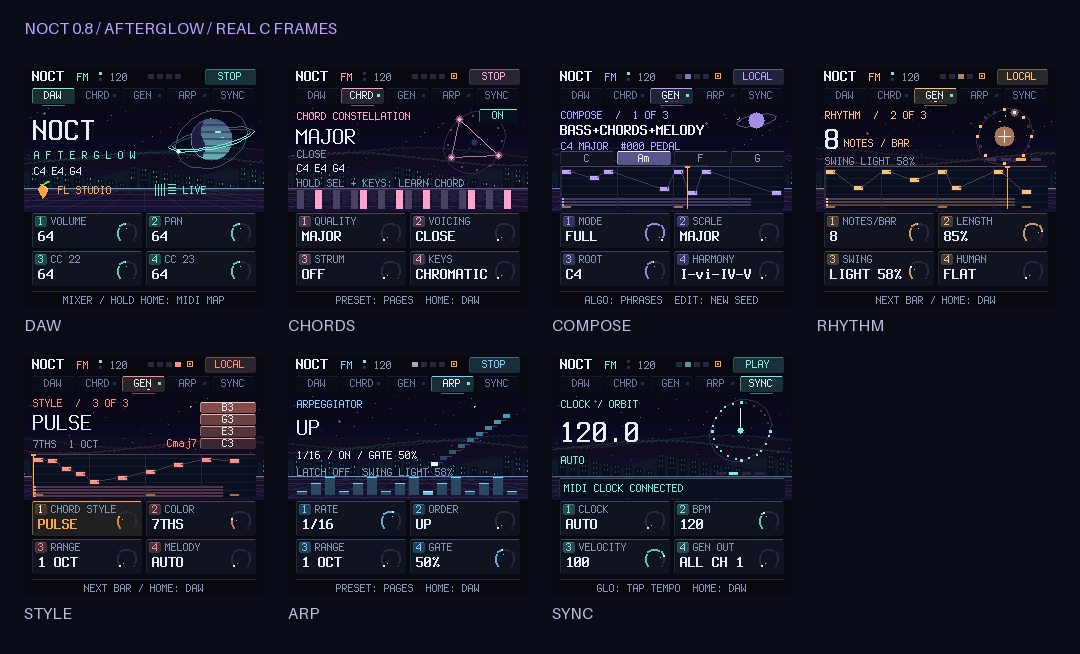
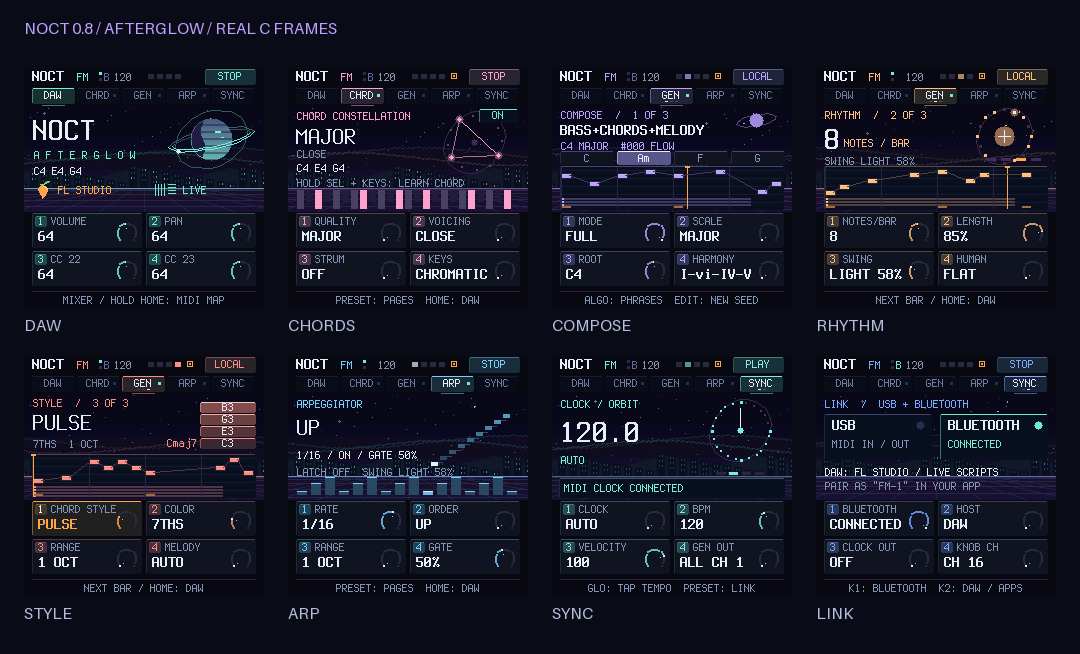
NOCT 0.9.3: Bluetooth MIDI with USB, and a mode for Android apps
The device image is now built with fm1-base's Bluetooth LE MIDI (its radio
code unchanged): notes, controls and clock go out and come in on USB and
Bluetooth at the same time; it advertises as "FM-1". A new LINK page
switches Bluetooth on or off (kept by SAVE), and the header shows it
(blinking while waiting, steady when connected). The USB-only image is
still built as a CI artifact for fallback.

For apps without the DAW scripts (Koala Sampler and others on Android):
HOST APPS makes PLAY send MIDI Start / Stop; CLOCK OUT makes the FM-1 the
tempo master (24 PPQN from its BPM) - as master it ignores others' clock
and Start but always obeys Stop, which the fuzz test caught; the DAW-page
knobs can send on channel 1.

CI runs every C test on both the USB-only and the Bluetooth simulator
builds and checks both device images (Bluetooth image 250516 B, RAM
67288 of 98304 B). docs/HARDWARE_FACTS.md records the platform facts with
sources; README (EN/RU), site and emulator explain Bluetooth and Android.

Claude-Session: https://claude.ai/code/session_012eSwYGEGmDXbFAtAg5FXys

diff --git a/site/index.html b/site/index.html
@@ -26,13 +26,13 @@
   <main>
     <section class="hero">
       <div>
-        <p class="tag">M-VAVE FM-1 · v0.9.2 · USB MIDI</p>
-        <h1 data-i18n="hero.title">MIDI controller for FL&nbsp;Studio and Ableton&nbsp;Live</h1>
+        <p class="tag">M-VAVE FM-1 · v0.9.3 · USB + BLUETOOTH MIDI</p>
+        <h1 data-i18n="hero.title">MIDI controller for FL&nbsp;Studio, Ableton&nbsp;Live and mobile apps</h1>
         <p class="lead" data-i18n="hero.lead">This firmware turns the FM-1 into a DAW controller: keys, chords, a melody generator, an arpeggiator, mixer knobs and transport. The built-in synth is off — your DAW makes the sound.</p>
         <div class="cta"><a class="btn" href="#install" data-i18n="cta.install">Install</a><a class="btn ghost" href="./downloads/NOCT-DAW-scripts.zip" download data-i18n="cta.scripts">DAW scripts</a></div>
         <ul class="facts">
-          <li><b>27</b><span data-i18n="fact.keys">keys, F3–G5, ±3 octaves</span></li>
-          <li><b>7</b><span data-i18n="fact.pages">pages of 4 knobs</span></li>
+          <li><b>USB+BT</b><span data-i18n="fact.ports">MIDI over cable and Bluetooth at once</span></li>
+          <li><b>8</b><span data-i18n="fact.pages">pages of 4 knobs</span></li>
           <li><b>11</b><span data-i18n="fact.chords">chord types</span></li>
           <li><b>1000</b><span data-i18n="fact.phrases">phrases per seed, on the ALGORITHM dial</span></li>
         </ul>
@@ -67,6 +67,7 @@
         <article><img src="./screens/style.png" width="240" height="240" alt="STYLE page" loading="lazy"><div><h3>STYLE</h3><p data-i18n="p.style">How the chords play and what kind of melody you get: 13 characters from flowing lines, arpeggios and riffs to scale runs, ostinati, hooks, turns, octaves and echoes.</p><dl><dt>K1</dt><dd>HOLD, PULSE, OFFBEAT, BROKEN</dd><dt>K2</dt><dd data-i18n="p.style2">Triads, 7ths, add9, sus2, mixed</dd><dt>K3</dt><dd data-i18n="p.style3">Range 1–3 octaves</dd><dt>K4</dt><dd data-i18n="p.style4">Melody character (AUTO + 13)</dd></dl></div></article>
         <article><img src="./screens/arp.png" width="240" height="240" alt="ARP page" loading="lazy"><div><h3>ARP</h3><p data-i18n="p.arp">Arpeggiates the held notes. ARP + ENV latches them hands-free.</p><dl><dt>K1</dt><dd data-i18n="p.arp1">Rate 1/4 … 1/32</dd><dt>K2</dt><dd>UP, DOWN, RANDOM, CONVERGE, PEDAL…</dd><dt>K3</dt><dd data-i18n="p.arp3">Octaves 1–3</dd><dt>K4</dt><dd data-i18n="p.arp4">Note length</dd></dl></div></article>
         <article><img src="./screens/sync.png" width="240" height="240" alt="SYNC page" loading="lazy"><div><h3>SYNC</h3><p data-i18n="p.sync">Tempo and output. GLO on this page is tap tempo; the new BPM goes straight to the DAW.</p><dl><dt>K1</dt><dd>AUTO, INTERNAL, EXTERNAL</dd><dt>K2</dt><dd>BPM</dd><dt>K3</dt><dd data-i18n="p.sync3">Velocity 1–127; turn below 1 for SENSED</dd><dt>K4</dt><dd data-i18n="p.sync4">Generator out: all on ch 1, or SPLIT</dd></dl></div></article>
+        <article><img src="./screens/link.png" width="240" height="240" alt="LINK page" loading="lazy"><div><h3>LINK</h3><p data-i18n="p.link">USB and Bluetooth MIDI at the same time. APPS mode and clock out make the FM-1 drive apps like Koala Sampler.</p><dl><dt>K1</dt><dd data-i18n="p.link1">Bluetooth on / off</dd><dt>K2</dt><dd data-i18n="p.link2">Host: DAW scripts / apps (Start, Stop)</dd><dt>K3</dt><dd data-i18n="p.link3">Send MIDI Clock</dd><dt>K4</dt><dd data-i18n="p.link4">Knob channel 16 / 1</dd></dl></div></article>
       </div>
     </section>
 
@@ -118,11 +119,12 @@
         <div class="card"><h3>Ableton Live 11/12</h3><ol data-i18n="daw.live"><li>Copy the <code>Ableton Live/NOCT</code> folder to <code>Remote Scripts/</code> in your User Library.</li><li>Restart Live. Control Surface → <b>NOCT</b>, Input/Output → NOCT FM-1.</li><li>Turn on Track for the input and Sync for the output.</li><li>Select a MIDI track with an instrument.</li></ol></div>
       </div>
       <div class="card split"><h3 data-i18n="daw.splitt">Three instruments from the generator</h3><p data-i18n="daw.split">On SYNC set K4 to SPLIT: melody goes on channel 1, chords on 2, bass on 3. In FL Studio give three channels MIDI input channels 1, 2 and 3 (Channel settings → MIDI). In Live create three MIDI tracks with input NOCT FM-1 and channels Ch. 1, Ch. 2 and Ch. 3. The keyboard always plays on channel 1.</p></div>
+      <div class="card split"><h3 data-i18n="daw.appst">Android, Koala Sampler and other apps</h3><p data-i18n="daw.apps">On the FM-1 open LINK (PRESET after SYNC): HOST → APPS, CLOCK OUT → SEND, KNOB CH → CH 1 if the app learns controllers there. <b>USB:</b> connect through a USB-C / OTG adapter and enable the FM-1 in the app's MIDI settings. <b>Bluetooth:</b> don't pair in Android's Bluetooth settings — open the FM-1 from the app's Bluetooth MIDI search, or once with a Bluetooth MIDI connector app; it is called "FM-1". In Koala enable MIDI input from the FM-1 and external clock sync. USB has less latency than Bluetooth.</p></div>
       <div class="cta"><a class="btn" href="./downloads/NOCT-DAW-scripts.zip" download data-i18n="daw.scripts">Download scripts</a><a class="btn ghost" href="https://github.com/Joolo09/noct-fm#readme" data-i18n="daw.docs">Full documentation</a></div>
     </section>
   </main>
 
-  <footer><span>NOCT FM 0.9.2</span><span data-i18n="footer">Built on CTL-1, fm1-base and felucca-bsp · <a href="./LICENSE">MPL-2.0</a> · not affiliated with M-VAVE, Image-Line or Ableton</span></footer>
+  <footer><span>NOCT FM 0.9.3</span><span data-i18n="footer">Built on CTL-1, fm1-base and felucca-bsp · <a href="./LICENSE">MPL-2.0</a> · not affiliated with M-VAVE, Image-Line or Ableton</span></footer>
   <script type="module" src="./installer.js?v=3"></script>
 </body>
 </html>

diff --git a/emulator/index.html b/emulator/index.html
@@ -37,6 +37,7 @@ async function refresh(){try{let s=await(await fetch('/state')).json();if(!s.rea
 'RHYTHM: K1 — нот на такт, K2 — длительность, K3 — свинг, K4 — живость (акценты velocity). HOME возвращает ручки DAW.',
 'STYLE: K1 — стиль аккордов (HOLD/PULSE/OFFBEAT/BROKEN), K2 — окраска (TRIADS/7THS/ADD9/SUS2/MIXED), K3 — диапазон, K4 — характер мелодии (AUTO + 13).',
 'ARP: K1 — сетка, K2 — порядок (вкл. CONVERGE/PEDAL), K3 — октавы, K4 — длина ноты. ARP включает/выключает перебор.',
-'SYNC: K1 — AUTO/INT/EXT, K2 — BPM, K3 — velocity (ниже 1 — SENSED), K4 — выход генератора: всё на канале 1 или SPLIT (мелодия 1, аккорды 2, бас 3). GLO на этой странице — tap tempo.'][s.page];
-$('page').textContent=['DAW','CHORDS','COMPOSE','RHYTHM','STYLE','ARP','SYNC'][s.page]||s.page;$('bpm').textContent=(s.bpm/10).toFixed(1);$('notes').textContent=(s.sounding||s.notes).join(' · ')||'—';$('transport').textContent=s.running?'GEN PLAY':s.playing?'DAW PLAY':'STOP';const ledNames=['FX','SEL','ENV','LFO','EDIT','GLO','HOME','SAVE','ARP','SEQ','PLAY','REC','OCT-','OCT+'];document.querySelectorAll('[data-tap]').forEach(b=>{let i=ledNames.indexOf(b.dataset.tap);b.classList.toggle('on',!!(s.led_buttons>>i&1));b.classList.toggle('dim',!!(s.led_dim_buttons>>i&1))});for(const e of s.events){if(e.id<=lastEvent)continue;lastEvent=e.id;let [st,n,v]=e.data;if((st&240)===144&&v){deferred.delete(n);noteOn(n,v)}if((st&240)===128||((st&240)===144&&!v)){if(pedal)deferred.add(n);else noteOff(n)}if((st&240)===176&&n===64){pedal=v>=64;if(!pedal){for(const note of deferred)noteOff(note);deferred.clear()}}if((st&240)===176&&(n===120||n===123)){for(const note of voices.keys())noteOff(note);deferred.clear()}}for(const n of voices.keys())if(!(s.sounding||s.notes).includes(n))noteOff(n);$('log').textContent=s.events.slice(-9).map(e=>e.data.map(v=>v.toString(16).toUpperCase().padStart(2,'0')).join(' ')).join('\n');document.querySelectorAll('[data-key]').forEach(b=>{let key=Number(b.dataset.key);b.classList.toggle('down',!!(s.led_keys>>key&1));b.classList.toggle('dim',!!(s.led_dim_keys>>key&1))})}catch(e){$('connection').textContent='● '+e.message}setTimeout(refresh,120)}refresh();
+'SYNC: K1 — AUTO/INT/EXT, K2 — BPM, K3 — velocity (ниже 1 — SENSED), K4 — выход генератора: всё на канале 1 или SPLIT (мелодия 1, аккорды 2, бас 3). GLO на этой странице — tap tempo.',
+'LINK: K1 — Bluetooth вкл/выкл, K2 — хост DAW / APPS (PLAY шлёт MIDI Start/Stop), K3 — выход MIDI Clock, K4 — канал ручек 16 / 1.'][s.page];
+$('page').textContent=['DAW','CHORDS','COMPOSE','RHYTHM','STYLE','ARP','SYNC','LINK'][s.page]||s.page;$('bpm').textContent=(s.bpm/10).toFixed(1);$('notes').textContent=(s.sounding||s.notes).join(' · ')||'—';$('transport').textContent=s.running?'GEN PLAY':s.playing?'DAW PLAY':'STOP';const ledNames=['FX','SEL','ENV','LFO','EDIT','GLO','HOME','SAVE','ARP','SEQ','PLAY','REC','OCT-','OCT+'];document.querySelectorAll('[data-tap]').forEach(b=>{let i=ledNames.indexOf(b.dataset.tap);b.classList.toggle('on',!!(s.led_buttons>>i&1));b.classList.toggle('dim',!!(s.led_dim_buttons>>i&1))});for(const e of s.events){if(e.id<=lastEvent)continue;lastEvent=e.id;let [st,n,v]=e.data;if((st&240)===144&&v){deferred.delete(n);noteOn(n,v)}if((st&240)===128||((st&240)===144&&!v)){if(pedal)deferred.add(n);else noteOff(n)}if((st&240)===176&&n===64){pedal=v>=64;if(!pedal){for(const note of deferred)noteOff(note);deferred.clear()}}if((st&240)===176&&(n===120||n===123)){for(const note of voices.keys())noteOff(note);deferred.clear()}}for(const n of voices.keys())if(!(s.sounding||s.notes).includes(n))noteOff(n);$('log').textContent=s.events.slice(-9).map(e=>e.data.map(v=>v.toString(16).toUpperCase().padStart(2,'0')).join(' ')).join('\n');document.querySelectorAll('[data-key]').forEach(b=>{let key=Number(b.dataset.key);b.classList.toggle('down',!!(s.led_keys>>key&1));b.classList.toggle('dim',!!(s.led_dim_keys>>key&1))})}catch(e){$('connection').textContent='● '+e.message}setTimeout(refresh,120)}refresh();
 </script></html>

diff --git a/site/i18n.js b/site/i18n.js
@@ -4,7 +4,7 @@
 const ru = {
   'title':'NOCT FM — MIDI-прошивка для M-VAVE FM-1',
   'nav.how':'Как работает','nav.pages':'Страницы','nav.buttons':'Кнопки','nav.install':'Установка',
-  'hero.title':'MIDI-контроллер для FL&nbsp;Studio и Ableton&nbsp;Live',
+  'hero.title':'MIDI-контроллер для FL&nbsp;Studio, Ableton&nbsp;Live и мобильных приложений',
   'hero.lead':'Прошивка превращает FM-1 в контроллер для DAW: клавиатура, аккорды, генератор мелодий, арпеджиатор, ручки микшера и транспорт. Встроенный синтезатор отключён — весь звук делает DAW.',
   'cta.install':'Установить','cta.scripts':'Скрипты для DAW',
   'fact.keys':'клавиш, F3–G5, ±3 октавы','fact.pages':'страниц по 4 ручки','fact.chords':'типов аккордов','fact.scales':'ладов в генераторе','fact.phrases':'фраз на одно зерно — крутилка ALGORITHM',
@@ -31,7 +31,7 @@ const ru = {
   'p.sync3':'Velocity 1–127; ниже 1 — SENSED (по силе нажатия)','daw.splitt':'Три инструмента из генератора','daw.split':'На SYNC поставь K4 в SPLIT: мелодия идёт на канале 1, аккорды — на 2, бас — на 3. В FL Studio задай трём каналам MIDI-вход 1, 2 и 3 (Channel settings → MIDI). В Live создай три MIDI-дорожки со входом NOCT FM-1 и каналами Ch. 1, Ch. 2 и Ch. 3. Клавиатура всегда играет на канале 1.',
   'p.sync':'Темп и выход. На этой странице GLO — tap tempo, новый BPM сразу уходит в DAW.','p.sync4':'Выход генератора: всё на канале 1 или SPLIT',
   'buttons.title':'Кнопки',
-  'b.home':'Ручки → DAW. Удержание: MIXER / MIDI MAP','b.preset':'Листать страницы','b.algo':'Листать фразы #000–999','b.sel':'Аккорды вкл/выкл',
+  'b.home':'Ручки → DAW. Удержание: MIXER / MIDI MAP','b.preset':'Листать страницы','fact.ports':'MIDI по кабелю и Bluetooth одновременно','p.link':'USB и Bluetooth MIDI одновременно. Режим APPS и выход clock позволяют FM-1 управлять приложениями вроде Koala Sampler.','p.link1':'Bluetooth вкл / выкл','p.link2':'Хост: скрипты DAW / приложения (Start, Stop)','p.link3':'Отправлять MIDI Clock','p.link4':'Канал ручек 16 / 1','daw.appst':'Android, Koala Sampler и другие приложения','daw.apps':'На FM-1 открой LINK (PRESET после SYNC): HOST → APPS, CLOCK OUT → SEND, KNOB CH → CH 1, если приложение назначает контроллеры на этом канале. <b>USB:</b> подключи через переходник USB-C / OTG и включи FM-1 в MIDI-настройках приложения. <b>Bluetooth:</b> не сопрягай в настройках Bluetooth Android — открой FM-1 через поиск Bluetooth MIDI в приложении или один раз через приложение-коннектор Bluetooth MIDI; устройство называется «FM-1». В Koala включи MIDI-вход от FM-1 и синхронизацию по внешнему clock. У USB задержка меньше, чем у Bluetooth.','b.algo':'Листать фразы #000–999','b.sel':'Аккорды вкл/выкл',
   'b.keys':'клавиши','b.learn':'Запомнить аккорд','b.seq':'Генератор: пуск / стоп','b.key':'клавиша','b.root':'Тоника генератора',
   'b.edit':'Новое зерно: 1000 новых фраз','b.hold':'0,6 с','b.edithold':'Новая мелодия и аккорды','b.undo':'Отменить, до 8 шагов',
   'b.arp':'Арпеджиатор вкл/выкл','b.glo':'SYNC; на SYNC — tap tempo','b.transport':'Транспорт DAW','b.fx':'Эффекты трека в DAW',

diff --git a/tools/render-afterglow.py b/tools/render-afterglow.py
@@ -8,7 +8,9 @@ from PIL import Image, ImageDraw, ImageFont
 root=Path(__file__).resolve().parents[1]
 output=root/'test-output/afterglow'
 output.mkdir(parents=True,exist_ok=True)
-host=root/('firmware/app/build/host/noct-usb_host.exe' if os.name=='nt' else 'firmware/app/build/host/noct-usb_host')
+build=root/'firmware/app/build/host'
+host=build/('noct_host.exe' if os.name=='nt' else 'noct_host')   # the Bluetooth build shows the LINK page as on the device
+if not host.exists():host=build/('noct-usb_host.exe' if os.name=='nt' else 'noct-usb_host')
 commands=['wait 1400','splash','shot splash.png','wait 300']
 frames=[]
 def capture(page,extra=None):
@@ -28,7 +30,8 @@ commands.extend(['tap SEQ','tap ARP','key 7 down','key 11 down','key 14 down'])
 capture('arp',{12:['spin K2 2']})
 commands.extend(['key 7 up','key 11 up','key 14 up','tap ARP','tap GLO','simclock 1','midi USB FA 00 00'])
 capture('sync',{10:['simclock 0','wait 650'],18:['simclock 1']})
-commands.extend(['midi USB FC 00 00','simclock 0','expect active 0'])
+commands.extend(['midi USB FC 00 00','simclock 0','expect active 0','spin PRESET 1','ble connect'])
+capture('link',{6:['midi BLE 90 3C 64'],10:['midi BLE 80 3C 00']})
 script=output/'animation.ctl';script.write_text('\n'.join(commands)+'\n',encoding='utf8')
 subprocess.run([str(host),str(script),str(output)],check=True)
 images=[Image.open(output/name).convert('RGB') for name in frames]
@@ -39,7 +42,7 @@ large[0].save(preview/'afterglow.gif',save_all=True,append_images=large[1:],dura
 sheet=Image.new('RGB',(1080,654),(9,11,23));draw=ImageDraw.Draw(sheet)
 font=ImageFont.load_default(size=16)
 draw.text((24,18),'NOCT 0.8 / AFTERGLOW / REAL C FRAMES',font=font,fill=(190,160,255))
-for i,page in enumerate(['daw','chords','compose','rhythm','style','arp','sync']):
+for i,page in enumerate(['daw','chords','compose','rhythm','style','arp','sync','link']):
     x=24+(i%4)*264;y=68+(i//4)*288
     sheet.paste(Image.open(output/f'{page}-08.png').convert('RGB'),(x,y))
     draw.text((x,y+247),page.upper(),font=font,fill=(183,190,219))

diff --git a/firmware/app/afterglow.c b/firmware/app/afterglow.c
@@ -350,7 +350,7 @@ static void ag_scene(uint32_t now,int page,uint16_t accent)
         cv_text(132,24,&FONT_B,"BLUETOOTH",K_TEXT);cv_text(132,44,&FONT_XS,ble_text(),bt_conn?K_MINT:bt_on?accent:K_DIM);
         {int pulse=bt_on && !bt_conn && (now/400u)%2u;ag_disc(222,31,4,bt||bt_conn?K_MINT:pulse?accent:RGB(45,47,72));}
         cv_text(9,72,&FONT_XS,proj.host_mode?"APPS: MIDI START/STOP":"DAW: FL STUDIO / LIVE SCRIPTS",K_TEXT);
-        cv_text(9,86,&FONT_XS,proj.clock_out?"CLOCK OUT: FM-1 IS THE MASTER":bt_on?"PAIR AS \"FM-1\" IN YOUR APP":"KNOBS + NOTES ON EVERY PORT",proj.clock_out?K_MINT:K_DIM);
+        cv_text(9,86,&FONT_XS,proj.clock_out?"CLOCK OUT: FM-1 IS THE MASTER":bt_conn?"MIDI ON USB AND BLUETOOTH":bt_on?"PAIR AS \"FM-1\" IN YOUR APP":"MIDI ON USB",proj.clock_out?K_MINT:K_DIM);
     }else{
         ag_clock(accent);cv_text(9,4,&FONT_XS,"CLOCK / ORBIT",accent);
         p=put_u(text,proj.bpm10/10u);put_u(put_s(p,"."),proj.bpm10%10u);

diff --git a/README.md b/README.md
@@ -1,6 +1,6 @@
 # NOCT FM
 
-**MIDI controller firmware for the M-VAVE FM-1, made for FL Studio and Ableton Live.**
+**MIDI controller firmware for the M-VAVE FM-1, made for FL Studio, Ableton Live and mobile apps — over USB and Bluetooth.**
 
 Keys, one-finger chords, a phrase generator, an arpeggiator, mixer knobs and DAW transport — on one fixed MIDI
 preset. The FM-1's built-in synth is switched off: your DAW makes the sound.
@@ -18,6 +18,7 @@ preset. The FM-1's built-in synth is switched off: your DAW makes the sound.
 - [What it does](#what-it-does)
 - [Install](#install)
 - [Connect your DAW](#connect-your-daw)
+- [Bluetooth and apps (Android, Koala Sampler)](#bluetooth-and-apps-android-koala-sampler)
 - [Controls](#controls)
 - [The generator](#the-generator)
 - [Lights and screen](#lights-and-screen)
@@ -34,7 +35,7 @@ preset. The FM-1's built-in synth is switched off: your DAW makes the sound.
 | **Generator** | 4-bar phrases: melody, chords, bass or all three; 8 scales, 24 progressions + AUTO, 13 melody characters; 1000 variations per seed on the ALGORITHM dial |
 | **Arpeggiator** | 7 orders, 1/4 … 1/32, 1–3 octaves, gate, swing, latch |
 | **DAW control** | Mixer knobs, play / stop / record, FX, master, tap tempo; BPM and transport sync both ways |
-| **MIDI** | Notes on channel 1 (generator can split to channels 1/2/3), controls on channel 16, MIDI Clock in |
+| **MIDI** | USB and Bluetooth LE MIDI at the same time (plus TRS in); notes on channel 1 (generator can split to 1/2/3), controls on channel 16; MIDI Clock in or out |
 
 ## Install
 
@@ -72,6 +73,27 @@ Live *MIDI Map*).
 bass on 3. In FL give three channels MIDI input channels 1, 2, 3; in Live make three MIDI tracks with input NOCT
 FM-1 and Ch. 1, Ch. 2, Ch. 3. The keyboard always plays on channel 1.
 
+## Bluetooth and apps (Android, Koala Sampler)
+
+The firmware sends and receives MIDI on **USB and Bluetooth at the same time**. Bluetooth starts at power-on and
+advertises as **"FM-1"**; switch it on or off on the **LINK** page (K1) and SAVE to keep the choice.
+
+**On the FM-1 (LINK page)** for apps without the DAW scripts:
+
+1. K2 **HOST → APPS**: PLAY sends MIDI Start / Stop instead of the script controls.
+2. K3 **CLOCK OUT → SEND**: the FM-1 becomes the tempo master and sends MIDI Clock (it then ignores incoming clock
+   and Start, but always obeys an incoming Stop).
+3. K4 **KNOB CH → CH 1** if the app learns controllers on the notes' channel.
+
+**Android over USB:** connect with a USB-C / OTG adapter; in the app's MIDI settings enable the FM-1 input (and the
+output for clock and lights). **Android over Bluetooth:** do *not* pair in the system Bluetooth settings — a
+Bluetooth MIDI device must be opened by a MIDI app. Use the app's own Bluetooth MIDI search if it has one; if not,
+connect once with a Bluetooth MIDI connector app, after which the FM-1 shows up in every MIDI app. In Koala
+Sampler, turn on its MIDI input for the FM-1 and, with CLOCK OUT on, its external MIDI clock sync.
+
+Bluetooth MIDI has more latency than USB; for tight timing prefer USB. Android and Koala behaviour depends on the
+phone and app version and has not been tested on hardware by this project.
+
 ## Controls
 
 The screen shows a page; the four knobs edit what that page shows. **PRESET** flips pages, **HOME** returns the
@@ -86,6 +108,7 @@ knobs to the DAW. Nothing on a settings page sends CC.
 | **STYLE** | Chords: hold, pulse, offbeat, broken | Colour: triads, 7ths, add9, sus2, mixed | Range 1–3 oct | Melody character (AUTO + 13) |
 | **ARP** | Rate | Order (7) | Octaves | Gate |
 | **SYNC** | Clock: auto, internal, external | BPM | Velocity; below 1 = sensed | Generator out: ch 1 / split |
+| **LINK** | Bluetooth on / off | Host: DAW / apps | Clock out | Knob channel: 16 / 1 |
 
 | Button | Action |
 | --- | --- |
@@ -101,7 +124,7 @@ knobs to the DAW. Nothing on a settings page sends CC.
 | **SEQ + EDIT** | Undo, up to 8 steps |
 | **ARP** | Arpeggiator on / off (always off after power-on) |
 | **ARP + ENV** | Latch |
-| **GLO** | SYNC page; on the SYNC page: tap tempo |
+| **GLO** | SYNC page (PRESET → LINK); on the SYNC page: tap tempo |
 | **PLAY / REC** | DAW transport; PLAY also stops a local generator preview |
 | **FX** | FX of the selected FL mixer track / Live device on |
 | **ENV** | Sustain while held |
@@ -146,6 +169,9 @@ For the widest variety: COMPOSE K4 → AUTO, STYLE K2 → MIXED, STYLE K4 → AU
 
 - The bootloader, USB, OTA and flash code from fm1-base are **not modified**; NOCT is an application on top.
 - Flash is written only when you press SAVE. Unknown or invalid settings fall back to defaults.
+- Bluetooth uses fm1-base's own radio code unchanged; if a Bluetooth start ever crashes, fm1-base keeps
+  Bluetooth off at the next boot, and two crashes while starting bring up a safe mode. A USB-only image is built
+  too (CI artifact `noct-usb-only`) as a fallback.
 - Every release is built in CI with the device image checks (RAM, interrupt-safe code, register access) and
   the site publishes only a build that passed them.
 - **If the FM-1 does not start:** hold OCT− and OCT+ for 5 seconds for update mode and restore the stock firmware
@@ -163,7 +189,8 @@ for t in tests/test_*.py; do python3 "$t"; done  # scenario tests on the real C 
 firmware/app/build/host/noct-usb_host tests/noct.ctl test-output
 node tests/installer.test.mjs
 python tools/emulator.py --port 8766            # interactive emulator at http://127.0.0.1:8766/
-sh build.sh --no-ble --release 0.9.2            # device image (needs the JieLi pi32v2 toolchain and AC79 SDK)
+sh build.sh --release 0.9.3                     # device image, USB + Bluetooth (JieLi pi32v2 toolchain, AC79 SDK)
+sh build.sh --no-ble --release 0.9.3            # USB-only image
 ```
 
 - Firmware: [`firmware/app`](firmware/app) — `composer.c` (generator), `midi_engine.c` (clock, arp),
@@ -172,6 +199,7 @@ sh build.sh --no-ble --release 0.9.2            # device image (needs the JieLi 
 - Site and installer: [`site/`](site) (English and Russian). DAW scripts: [`integrations/`](integrations).
 - Improving the firmware: [`docs/IMPROVE_PROMPT.md`](docs/IMPROVE_PROMPT.md) — no-brick rules, an audit checklist
   and a definition of done.
+- Hardware facts and their sources: [`docs/HARDWARE_FACTS.md`](docs/HARDWARE_FACTS.md).
 - MIDI protocol on channel 16: CC7 master; CC20–23 knobs (CC24–27 in MIDI map); CC110/111/112 play/stop/record;
   CC113 FX; CC114 + CC115 BPM×10 (14-bit, always as a pair); CC116/117 playing/recording feedback; CC119 value 2
   preset handshake.

diff --git a/CHANGELOG.md b/CHANGELOG.md
@@ -1,5 +1,14 @@
 # Changelog
 
+## 0.9.3
+- Bluetooth LE MIDI alongside USB (fm1-base's radio, unchanged): notes, controls and clock on both; advertises as
+  "FM-1"; on / off on the new LINK page, kept by SAVE. A USB-only image is still built as a fallback.
+- APPS host mode for apps such as Koala Sampler: PLAY sends MIDI Start / Stop.
+- CLOCK OUT: the FM-1 sends MIDI Clock from its tempo; as master it ignores incoming clock and Start but always
+  obeys Stop.
+- Knob channel 16 or 1. Header shows Bluetooth (blinking while waiting, steady when connected).
+- Tests run on both builds; `docs/HARDWARE_FACTS.md` lists the platform facts with sources.
+
 ## 0.9.2
 - `docs/IMPROVE_PROMPT.md`: a reusable improvement brief (no-brick rules, audit checklist, definition of done).
 - Fuzzing: 2000 random sessions left no note sounding; 200 now run in CI (`tests/test_fuzz.py`).
